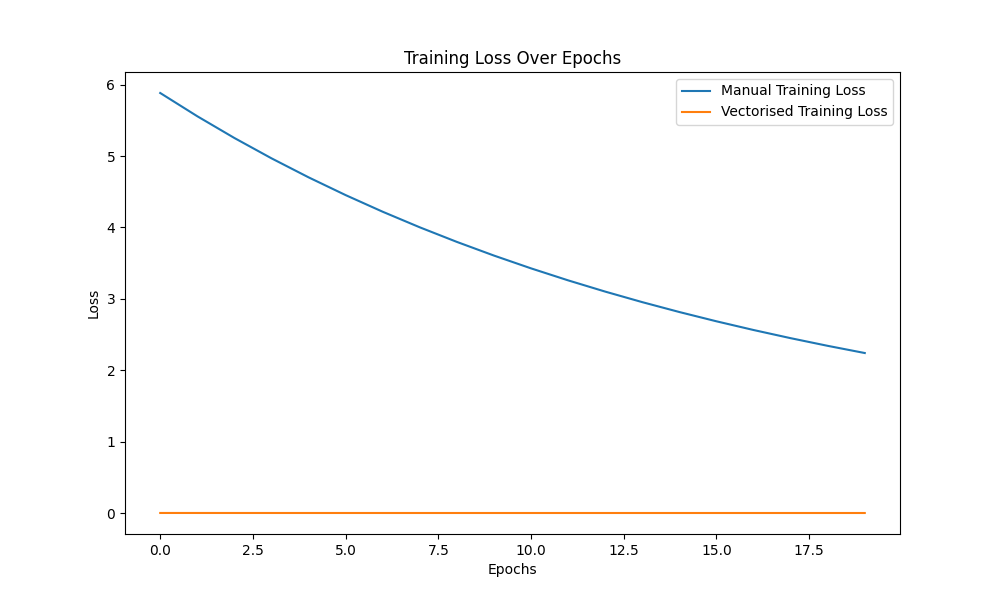
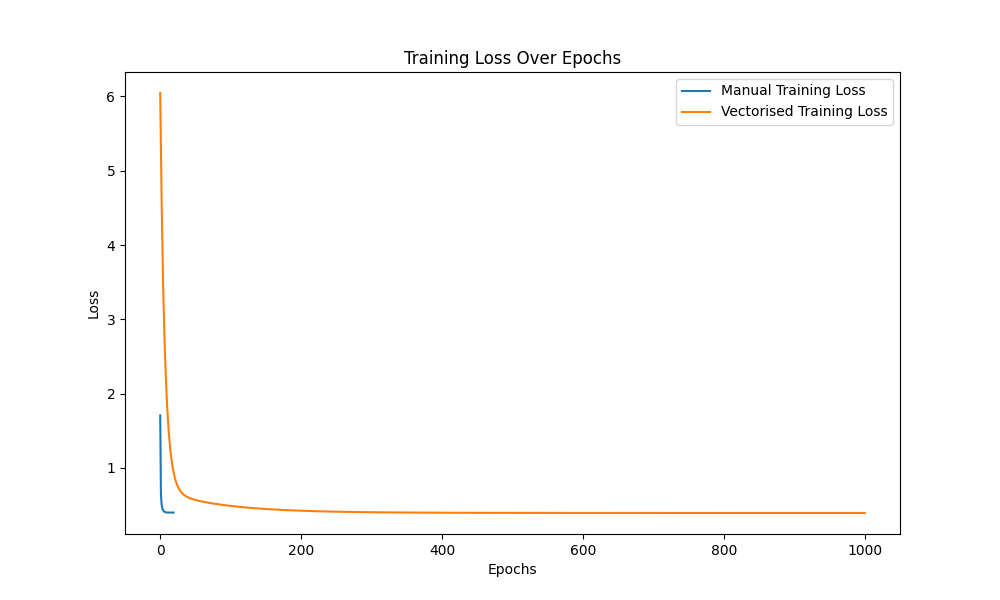
feat: manual eval, verbose option

diff --git a/main.py b/main.py
@@ -122,7 +122,7 @@ def load_data(train_split, val_split):
     )
 
 
-def train_manual(train_set, val_set, epochs, lr, weights=None, bias=1):
+def train_manual(train_set, val_set, epochs, lr, weights=None, bias=1, verbose=False):
     n_params = len(train_set[0][0])
 
     if weights is None:
@@ -131,7 +131,8 @@ def train_manual(train_set, val_set, epochs, lr, weights=None, bias=1):
     if bias is None:
         bias = 1
 
-    train_loss = []
+    train_loss_list = []
+    val_loss_list = []
 
     for epoch in tqdm(range(epochs)):
         running_loss = 0.0
@@ -159,20 +160,25 @@ def train_manual(train_set, val_set, epochs, lr, weights=None, bias=1):
             bias = bias - lr * bias_grad
 
         normalised_loss = running_loss / len(train_set)
-        train_loss.append(normalised_loss)
+        train_loss_list.append(normalised_loss)
 
-        # make sample prediction
-        x, y = train_set[0]
-        y_pred = 0.0
-        for i in range(n_params):
-            y_pred += weights[i] * x[i]
-        y_pred = y_pred + bias
-        # print(f"Epoch {epoch}: Prediction: {y_pred:.4f}, True Value: {y:.4f}")
+        # evaluate on validation set
+        val_loss = evaluate_model_manual(weights, bias, val_set)
+        val_loss_list.append(val_loss)
 
-    return train_loss
+        if verbose:
+            # make sample prediction
+            x, y = train_set[0]
+            y_pred = 0.0
+            for i in range(n_params):
+                y_pred += weights[i] * x[i]
+            y_pred = y_pred + bias
+            print(f"Epoch {epoch}: Prediction: {y_pred:.4f}, True Value: {y:.4f}")
+
+    return train_loss_list, val_loss_list
 
 
-def train_vectorised(model, loss_fn, train_set, val_set, epochs):
+def train_vectorised(model, loss_fn, train_set, val_set, epochs, verbose=False):
     train_loss = []
     # val_loss = []
 
@@ -195,15 +201,16 @@ def train_vectorised(model, loss_fn, train_set, val_set, epochs):
         normalised_loss = running_loss / len(train_set)
         train_loss.append(normalised_loss)
 
-        # make sample prediction
-        x, y = train_set[0]
-        y_pred = model(x)
-        # print(f"Epoch {epoch}: Prediction: {y_pred:.4f}, True Value: {y:.4f}")
+        if verbose:
+            # make sample prediction
+            x, y = train_set[0]
+            y_pred = model(x)
+            print(f"Epoch {epoch}: Prediction: {y_pred:.4f}, True Value: {y:.4f}")
 
     return train_loss
 
 
-def train_vectorised_full(model, loss_fn, train_set, val_set, epochs):
+def train_vectorised_full_batch(model, loss_fn, train_set, val_set, epochs, verbose=False):
     train_loss_list = []
     val_loss_list = []
 
@@ -227,15 +234,16 @@ def train_vectorised_full(model, loss_fn, train_set, val_set, epochs):
         val_loss = evaluate_model_full(model, loss_fn, x_val, y_val)
 
         # log loss
-        normalised_train_loss = loss / len(train_set)
+        normalised_train_loss = loss
         train_loss_list.append(normalised_train_loss)
-        normalised_val_loss = val_loss / len(val_set)
+        normalised_val_loss = val_loss
         val_loss_list.append(normalised_val_loss)
 
-        # make sample prediction
-        x, y = x_train[0], y_train[0]
-        y_pred = model(x)
-        print(f"Epoch {epoch}: Prediction: {y_pred:.4f}, True Value: {y:.4f}")
+        if verbose: 
+            # make sample prediction
+            x, y = x_train[0], y_train[0]
+            y_pred = model(x)
+            print(f"Epoch {epoch}: Prediction: {y_pred:.4f}, True Value: {y:.4f}")
 
     return train_loss_list, val_loss_list
 
@@ -244,6 +252,20 @@ def evaluate_model_full(model, loss_fn, x_test, y_test):
     y_pred = model(x_test, no_grad=True)
     loss = loss_fn(y_pred, y_test, no_grad=True)
     return loss
+
+
+def evaluate_model_manual(weights, bias, test_set):
+    running_loss = 0.0
+    for x, y in test_set:
+        y_pred = 0.0
+        for i in range(len(weights)):
+            y_pred += weights[i] * x[i]
+        y_pred = y_pred + bias
+        loss = (y_pred - y) ** 2
+        running_loss += loss
+
+    normalised_loss = running_loss / len(test_set)
+    return normalised_loss
 
 
 def plot_results(train_loss):
@@ -255,19 +277,20 @@ def plot_results(train_loss):
     plt.savefig("results/training_loss_plot.png")
 
 
-def plot_manual_vs_vectorised_loss(train_loss_manual, train_loss_vectorised):
-    print("plotting manual vs vectorised loss")
+def plot_manual_vs_vectorised_loss(train_loss_manual, train_loss_vectorised, title):
     plt.figure(figsize=(10, 6))
     plt.plot(train_loss_manual, label="Manual Training Loss")
     plt.plot(train_loss_vectorised, label="Vectorised Training Loss")
     plt.xlabel("Epochs")
     plt.ylabel("Loss")
-    plt.title("Training Loss Over Epochs")
+    plt.title(title)
     plt.legend()
-    plt.savefig("results/manual_vs_vectorised_loss_plot.png")
+    plt.savefig(f"results/{title}_plot.png")
 
 
 def main():
+    VERBOSE = False
+    
     # Set random seed for reproducibility
     np.random.seed(cfg.seed)
 
@@ -294,21 +317,46 @@ def main():
     loss_fn = MSE(full_batch=True)
 
     print("Training manual model...")
-    train_loss_manual = train_manual(
-        train_set, val_set, cfg.epochs, cfg.lr_mini, weights_manual, bias_manual
+    train_loss_manual, val_loss_manual = train_manual(
+        train_set,
+        val_set,
+        cfg.epochs_manual,
+        cfg.lr_mini,
+        weights_manual,
+        bias_manual,
+        verbose=VERBOSE,
     )
 
     print("Training vectorised model...")
-    train_loss_vectorised, val_loss_vectorised = train_vectorised_full(
-        model, loss_fn, train_set, val_set, cfg.epochs
+    train_loss_vectorised, val_loss_vectorised = train_vectorised_full_batch(
+        model, loss_fn, train_set, val_set, cfg.epochs_full_batch, verbose=VERBOSE
     )
+    
+    print("Evaluating manual model...")
+    test_loss_manual = evaluate_model_manual(weights_manual, bias_manual, test_set)
 
-    # print("Manual training loss:", train_loss_manual[-1])
-    print("Vectorised training loss:", train_loss_vectorised[-1])
-    print("Vectorised validation loss:", val_loss_vectorised[-1])
+    print("Evaluating vectorised model...")
+    x_test = np.array([item[0] for item in test_set])
+    y_test = np.array([item[1] for item in test_set])
+    test_loss_vectorised = evaluate_model_full(model, loss_fn, x_test, y_test)
+    
+
+    print(f"Manual training loss: {train_loss_manual[-1]:.4f}")
+    print(f"Manual validation loss: {val_loss_manual[-1]:.4f}")
+    print(f"Manual test loss: {test_loss_manual:.4f}")
+
+    print(f"Vectorised training loss: {train_loss_vectorised[-1]:.4f}")
+    print(f"Vectorised validation loss: {val_loss_vectorised[-1]:.4f}")
+    print(f"Vectorised test loss: {test_loss_vectorised:.4f}")
+
+    # print number of update steps per model
+    print("Manual update steps:", len(train_loss_manual) * len(train_set))
+    print("Vectorised update steps:", cfg.epochs_full_batch)
+
     # plot_results(train_loss_vectorised)
 
-    plot_manual_vs_vectorised_loss(train_loss_manual, train_loss_vectorised)
+    plot_manual_vs_vectorised_loss(train_loss_manual, train_loss_vectorised, "Training Loss")
+    plot_manual_vs_vectorised_loss(val_loss_manual, val_loss_vectorised, "Validation Loss")
 
 
 if __name__ == "__main__":

diff --git a/config.py b/config.py
@@ -11,6 +11,7 @@ cfg.val_split = 0.15
 
 
 # training
-cfg.lr_mini = 0.000001
-cfg.lr_full = 1000
-cfg.epochs = 20
+cfg.lr_mini = 0.0001
+cfg.lr_full = 500
+cfg.epochs_manual = 20
+cfg.epochs_full_batch = 1000
